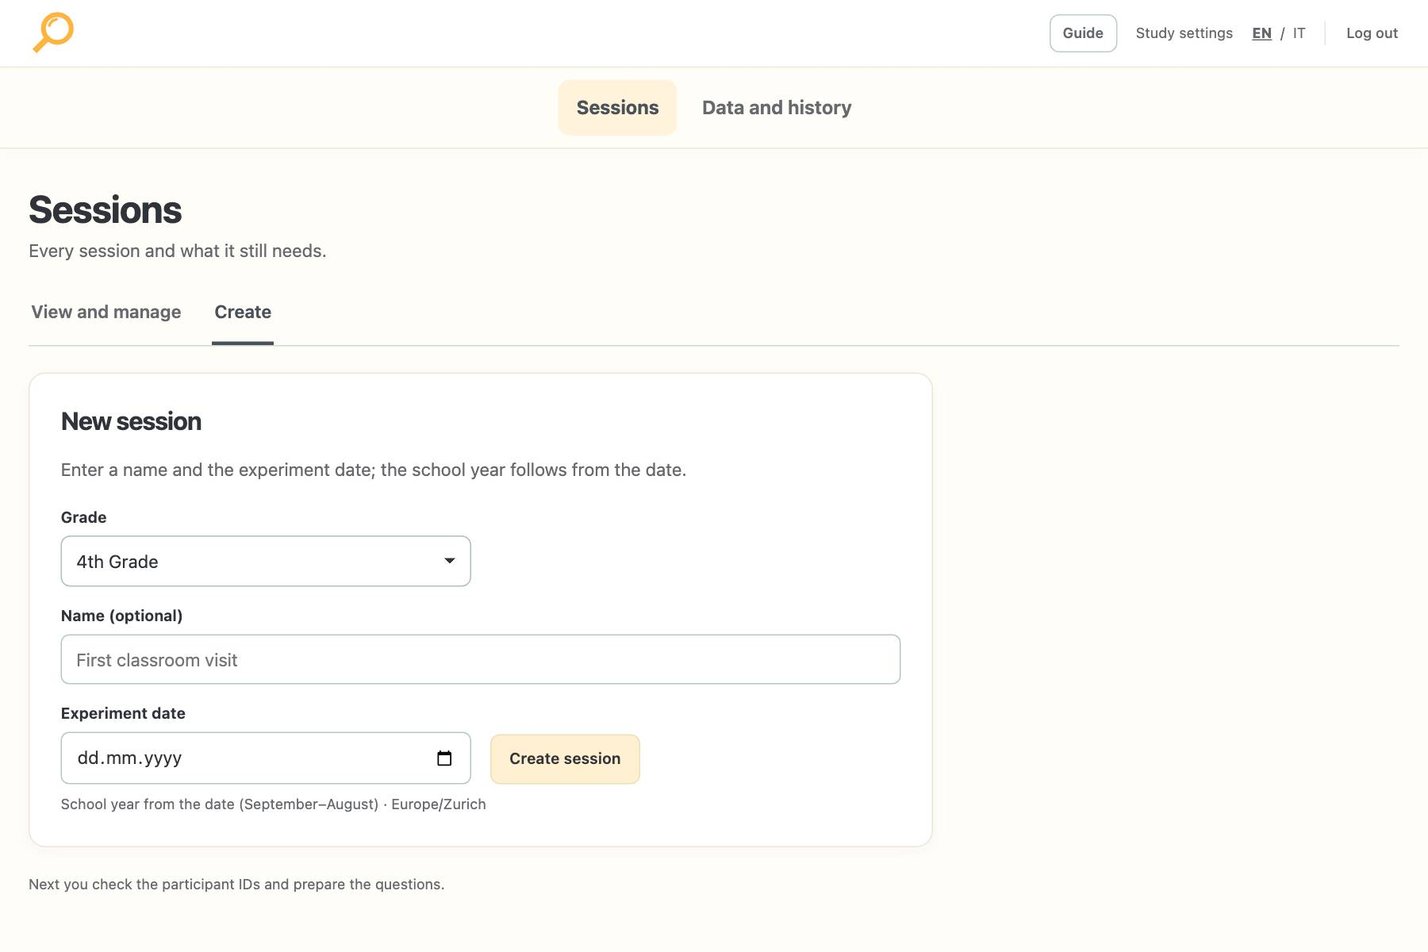
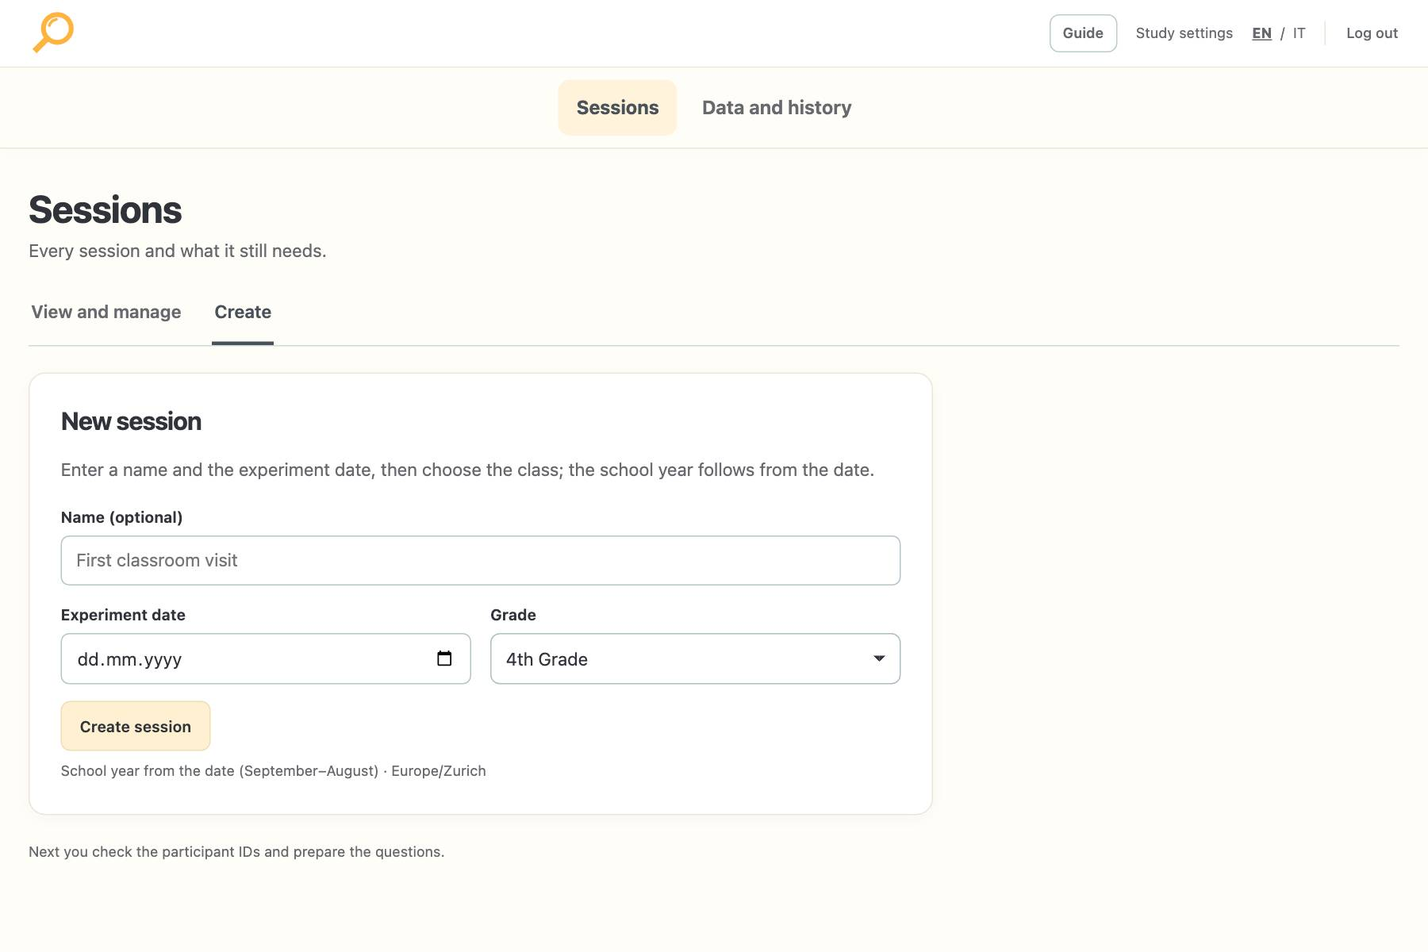
Re-check dashboard v2 against the researcher feedback of 3 November
Checked every point of the colleague's PDF and recording in a real browser.

Searching for an ID and jumping to one now use menus listing every ID, with its class
on the ID pages, instead of typing. The Participants year filter is a menu too. The
"Stai modificando" subtitle dropped by v2 is back, and its test no longer weakened.
Creating a session asks name and date first, then the class, with none preselected.
Draft badges use the warning colour and triangle. Today's session is no longer hidden
when the saved current year lags behind.

diff --git a/logger/search-app/research_dashboard/templates/research/enrollment.html b/logger/search-app/research_dashboard/templates/research/enrollment.html
@@ -39,10 +39,10 @@
     <input type="hidden" name="year" value="{{ year }}">
     <input type="hidden" name="grade" value="{{ workflow_session.grade }}">
     {% else %}
-    <div>{{ school_year_input('filter-year', 'year', year, school_years, required=false) }}</div>
+    <div><label for="filter-year">{{ t('school_year') }}</label><select id="filter-year" name="year">{% if not year %}<option value="" selected>{{ t('school_year_unknown') }}</option>{% endif %}{% for value in school_years %}<option value="{{ value }}" {% if year == value %}selected{% endif %}>{{ value }}</option>{% endfor %}</select></div>
     <div><label for="filter-grade">{{ t('grade') }}</label><select id="filter-grade" name="grade"><option value="all">{{ t('all') }}</option>{% for item in grades %}<option value="{{ item }}" {% if grade == item %}selected{% endif %}>{{ t('grade_' ~ item) }}</option>{% endfor %}</select></div>
     {% endif %}
-    <div><label for="filter-id">{{ t('find_exact_id') }}</label><input id="filter-id" name="q" type="search" value="{{ query }}" maxlength="32" placeholder="001" aria-describedby="id-search-hint" autocomplete="off"></div>
+    <div><label for="filter-id">{{ t('find_exact_id') }}</label><select id="filter-id" name="q" aria-describedby="id-search-hint"><option value="">{{ t('all_ids') }}</option>{% if query and query not in registry_ids %}<option value="{{ query }}" selected>{{ query }}</option>{% endif %}{% for uid, id_grade in id_choices %}<option value="{{ uid }}" {% if query == uid %}selected{% endif %}>{{ uid }} · {{ t('grade_short_' ~ id_grade) if id_grade else t('not_enrolled') }}</option>{% endfor %}</select></div>
     <div><label for="filter-status">{{ t('participant_study_status') }}</label><select id="filter-status" name="status">{% for item in ('all','active','inactive') %}<option value="{{ item }}" {% if status == item %}selected{% endif %}>{{ t(item) }}</option>{% endfor %}</select></div>
     <div class="enrollment-filter-actions"><button type="submit">{{ t('apply_filters') }}</button><a href="{{ u('enrollment_page',year=year,grade=grade) }}">{{ t('dashboard_reset') }}</a></div>
   </form>

diff --git a/logger/search-app/research_dashboard/templates/research/base.html b/logger/search-app/research_dashboard/templates/research/base.html
@@ -4,12 +4,12 @@
   <meta charset="utf-8">
   <meta name="viewport" content="width=device-width, initial-scale=1">
   <title>{{ t('dashboard') }} · SOL</title>
-  <link rel="stylesheet" href="{{ url_for('research.static', filename='research.css', v='dashboard-v2-20261105') }}">
-  <link rel="stylesheet" href="{{ url_for('research.static', filename='history.css', v='dashboard-v2-20261105') }}">
-  <link rel="stylesheet" href="{{ url_for('research.static', filename='workflow.css', v='dashboard-v2-20261105') }}">
-  <link rel="stylesheet" href="{{ url_for('research.static', filename='editor.css', v='dashboard-v2-20261105') }}">
-  <link rel="stylesheet" href="{{ url_for('research.static', filename='sessions.css', v='dashboard-v2-20261105') }}">
-  <link rel="stylesheet" href="{{ url_for('research.static', filename='stats.css', v='dashboard-v2-20261105') }}">
+  <link rel="stylesheet" href="{{ url_for('research.static', filename='research.css', v='dashboard-v2-20261106') }}">
+  <link rel="stylesheet" href="{{ url_for('research.static', filename='history.css', v='dashboard-v2-20261106') }}">
+  <link rel="stylesheet" href="{{ url_for('research.static', filename='workflow.css', v='dashboard-v2-20261106') }}">
+  <link rel="stylesheet" href="{{ url_for('research.static', filename='editor.css', v='dashboard-v2-20261106') }}">
+  <link rel="stylesheet" href="{{ url_for('research.static', filename='sessions.css', v='dashboard-v2-20261106') }}">
+  <link rel="stylesheet" href="{{ url_for('research.static', filename='stats.css', v='dashboard-v2-20261106') }}">
   <script src="{{ url_for('research.static', filename='editor.js') }}" defer></script>
   {% block page_assets %}{% endblock %}
 </head>

diff --git a/logger/search-app/research_dashboard/templates/research/prepare.html b/logger/search-app/research_dashboard/templates/research/prepare.html
@@ -4,7 +4,7 @@
 <div class="preparation-workspace">
   {% set shown = rejected or selected %}
   <a class="session-back" href="{{ u('sessions_page', year=shown.school_year or study_context.school_year, _anchor=shown.id) }}">&larr; {{ t('back_to_sessions') }}</a>
-  <div class="preparation-heading"><div><h1>{{ shown.name or (t('session') ~ ' ' ~ shown.number) }}</h1><p class="muted">{{ t('grade_' ~ study_context.grade) }} · {{ study_context.school_year }}{% if shown.name %} · {{ t('session') }} {{ shown.number }}{% endif %}</p></div></div>
+  <div class="preparation-heading"><div><h1>{{ shown.name or (t('session') ~ ' ' ~ shown.number) }}</h1><p class="muted">{% if selected %}{{ t('prepare_editing') }} <strong>{{ selected.name or (t('session') ~ ' ' ~ selected.number) }}</strong> · {% endif %}{{ t('grade_' ~ study_context.grade) }} · {{ study_context.school_year }}{% if shown.name %} · {{ t('session') }} {{ shown.number }}{% endif %}.{% if selected %} {{ t('prepare_editing_scope') }}{% endif %}</p></div></div>
   {% if error %}<p class="notice warning" role="alert">{{ t(error) }}</p>{% if error == 'settings_changed' %}<a href="{{ u('prepare_page',grade=study_context.grade,year=study_context.school_year,session=shown.id) }}">{{ t('reload_saved_settings') }}</a>{% elif rejected_review_url %}<p><a class="button" href="{{ rejected_review_url }}" target="_blank" rel="noopener">{{ t('review_saved_session') }}</a></p>{% endif %}{% endif %}
   {% if request.args.get('saved') %}<p class="notice success" role="status">{{ t('session_saved') }}</p>{% endif %}
   {% if request.args.get('participants_saved') %}<p class="notice success" role="status">{{ t('participants_saved') }}</p>{% endif %}

diff --git a/logger/search-app/research_dashboard/templates/research/sessions_new.html b/logger/search-app/research_dashboard/templates/research/sessions_new.html
@@ -8,9 +8,9 @@
     <p class="muted">{{ t('prepare_creating_hint') }}</p>
     <form class="session-create-form" method="post" data-guard{% if error %} data-unsaved{% endif %} action="{{ u('create_session_page') }}">
       <input type="hidden" name="csrf" value="{{ auth.csrf }}"><input type="hidden" name="revision" value="{{ form_revision }}">
-      <label for="new-grade">{{ t('grade') }}<select id="new-grade" name="grade">{% for value in grades %}<option value="{{ value }}" {% if selected_grade == value %}selected{% endif %}>{{ t('grade_' ~ value) }}</option>{% endfor %}</select></label>
       <label for="new-name">{{ t('session_name_optional') }}<input id="new-name" name="name" type="text" maxlength="80" value="{{ request.form.get('name', '') }}" placeholder="{{ t('session_name_example') }}"></label>
       <label for="new-date">{{ t('date') }}<input id="new-date" name="date" type="date" value="{{ request.form.get('date', '') }}" aria-describedby="new-date-year" required></label>
+      <label for="new-grade">{{ t('grade') }}<select id="new-grade" name="grade" required><option value="" disabled {% if selected_grade not in grades %}selected{% endif %}>{{ t('choose_class') }}</option>{% for value in grades %}<option value="{{ value }}" {% if selected_grade == value %}selected{% endif %}>{{ t('grade_' ~ value) }}</option>{% endfor %}</select></label>
       <button class="primary" type="submit">{{ t('create_session') }}</button>
     </form>
     <p class="small muted" id="new-date-year">{{ t('school_year_from_date') }} · Europe/Zurich</p>

diff --git a/logger/search-app/research_dashboard/templates/research/overview.html b/logger/search-app/research_dashboard/templates/research/overview.html
@@ -48,8 +48,7 @@
 
   {% if people %}<div class="participant-jump" data-participant-jump data-missing="{{ t('jump_id_missing') }}" data-participant-label="{{ t('participant') }}" hidden>
     <label for="participant-jump-id">{{ t('jump_to_id') }}</label>
-    <div class="participant-jump-controls"><input id="participant-jump-id" type="search" list="participant-jump-options" autocomplete="off" aria-describedby="participant-jump-hint"><button type="button">{{ t('jump_to_participant') }}</button></div>
-    <datalist id="participant-jump-options">{% for uid in people|map(attribute='id')|unique %}<option value="{{ uid }}">{% endfor %}</datalist>
+    <div class="participant-jump-controls"><select id="participant-jump-id" aria-describedby="participant-jump-hint"><option value="">{{ t('jump_choose_id') }}</option>{% for uid in people|map(attribute='id')|unique %}<option value="{{ uid }}">{{ uid }}</option>{% endfor %}</select><button type="button">{{ t('jump_to_participant') }}</button></div>
     <p id="participant-jump-hint" class="small muted">{{ t('jump_id_hint') }}</p>
     <p class="small" data-jump-result role="status" aria-live="polite"></p>
   </div>{% endif %}

diff --git a/logger/search-app/research_dashboard/static/sessions.css b/logger/search-app/research_dashboard/static/sessions.css
@@ -19,6 +19,9 @@
 .session-row-title a { font-weight:650; overflow-wrap:anywhere }
 .session-row-count { color:var(--muted); font-size:14px; font-variant-numeric:tabular-nums; white-space:nowrap }
 .session-row-status { display:flex; align-items:center; flex-wrap:wrap; gap:6px 10px; min-width:0 }
+/* A draft is the "setup to complete" warning: own colour and triangle, as on the session's page. */
+.session-row-status .badge.incomplete { display:inline-flex; align-items:center; gap:4px; border-color:var(--warning-line); background:var(--warning-soft); color:var(--warning-ink) }
+.session-row-status .badge.incomplete::before { content:""; width:12px; height:12px; flex:none; background-color:var(--warning-line); -webkit-mask:url("icon-warning.svg") center/contain no-repeat; mask:url("icon-warning.svg") center/contain no-repeat }
 .session-row .record-actions { justify-content:flex-end }
 .session-needs { display:flex; align-items:center; flex-wrap:wrap; gap:2px 8px; margin:0; font-size:13px }
 .session-needs > span { color:var(--muted) }

diff --git a/logger/search-app/research_dashboard/static/editor.js b/logger/search-app/research_dashboard/static/editor.js
@@ -123,11 +123,11 @@
 
   var jump = document.querySelector('[data-participant-jump]');
   if (jump) {
-    var jumpInput = jump.querySelector('input');
+    var jumpInput = jump.querySelector('select');
     var jumpResult = jump.querySelector('[data-jump-result]');
     var lastJump = '', jumpIndex = -1;
     function jumpToId() {
-      var value = jumpInput.value.trim();
+      var value = jumpInput.value;
       var matches = Array.prototype.filter.call(document.querySelectorAll('.participant-link[data-participant-id]'), function (link) {
         return link.getAttribute('data-participant-id') === value;
       }).map(function (link) { return link.closest('tr'); });

diff --git a/logger/search-app/research_dashboard/static/research.css b/logger/search-app/research_dashboard/static/research.css
@@ -1993,7 +1993,7 @@ select {
 .participant-jump[hidden] { display:none }
 .participant-jump label { margin-top:0 }
 .participant-jump-controls { display:flex; gap:8px; align-items:center }
-.participant-jump-controls input { min-width:0; flex:1; margin:0 }
+.participant-jump-controls select { min-width:0; flex:1; margin:0 }
 .participant-jump-controls button { flex:none }
 .participant-jump p { margin:6px 0 0 }
 .participant-jump-target { outline:2px solid #de9b34; outline-offset:-2px; background:var(--selection) }

diff --git a/logger/search-app/tests/test_dashboard_feedback.py b/logger/search-app/tests/test_dashboard_feedback.py
@@ -94,6 +94,8 @@ def test_clearer_wording_for_past_sessions_class_questions_and_recovery_copies(a
     assert "I bambini non possono più iniziare questa sessione" in page.text
     assert "nuovi accessi" not in page.text
     assert "Torna alle sessioni" in page.text
+    assert "Stai modificando <strong>" in page.text
+    assert "Le modifiche in questa pagina valgono solo per questa sessione." in page.text
     assert "Apri anno" not in page.text
     questions = client.get("/dashboard/settings/questions/grade-4-session-1?lang=it")
     assert "<h2>Domande per tutta la classe</h2>" in questions.text
@@ -146,6 +148,81 @@ def test_id_search_says_where_a_hidden_id_is(app):
     absent = client.get(from_prepare + "41")
     assert "non è iscritto in questo anno scolastico. Ultima classe: <strong>Quarta elementare · 2025/2026</strong>" in absent.text
     assert "Nessun partecipante corrisponde ai filtri" not in absent.text
+
+
+def select_options(html, control_id):
+    """(value, label, selected) of each option in one select, in order."""
+    field = re.search(rf'<select id="{control_id}".*?</select>', html, re.S)[0]
+    return [(value, " ".join(label.split()), "selected" in attrs)
+            for value, attrs, label in re.findall(r'<option value="([^"]*)"([^>]*)>(.*?)</option>', field, re.S)]
+
+
+def test_id_search_lists_every_id_with_its_class_so_nothing_has_to_be_typed(app):
+    client = signed_in(app)
+    from_prepare = f"/dashboard/settings/enrollment?prepare_session=grade-4-session-1&year={YEAR}&grade=4&lang=it"
+    page = client.get(from_prepare)
+    assert '<input id="filter-id"' not in page.text
+    options = select_options(page.text, "filter-id")
+    assert options[0] == ("", "Tutti gli ID", False)
+    # IDs of other classes are offered too: the researcher does not know where each child is.
+    assert ("1", "1 · Quarta", False) in options
+    assert ("21", "21 · Quinta", False) in options
+    chosen = client.get(from_prepare + "&q=21")
+    assert ("21", "21 · Quinta", True) in select_options(chosen.text, "filter-id")
+    assert "ID 21</strong> non è in questa classe" in chosen.text
+    # An ID from an old link stays visible, with the message saying it is not in the study.
+    unknown = client.get(from_prepare + "&q=999")
+    assert ("999", "999", True) in select_options(unknown.text, "filter-id")
+    assert "non è nello studio" in unknown.text
+
+
+def test_participants_filter_chooses_the_school_year_from_a_menu(app):
+    client = signed_in(app)
+    page = client.get(f"/dashboard/settings/enrollment?year={YEAR}&lang=it")
+    assert '<input id="filter-year"' not in page.text
+    assert (YEAR, YEAR, True) in select_options(page.text, "filter-year")
+
+
+def test_new_session_asks_name_and_date_first_and_the_class_is_an_explicit_choice(app):
+    client = signed_in(app)
+    state = app.extensions["research"]["state"]
+    page = client.get("/dashboard/sessions/new?lang=it")
+    assert page.text.index('id="new-name"') < page.text.index('id="new-date"') < page.text.index('id="new-grade"')
+    assert re.search(r'<option value="" disabled selected>Scegli la classe</option>', page.text)
+    assert 'id="new-grade" name="grade" required' in page.text
+    filtered = client.get("/dashboard/sessions/new?grade=5&lang=it")
+    assert ("5", "Quinta elementare", True) in select_options(filtered.text, "new-grade")
+    before = state.settings()
+    refused = client.post("/dashboard/sessions/new?lang=it", data={
+        "csrf": csrf(page), "revision": before["revision"], "name": "Senza classe", "date": "2026-12-01", "grade": ""})
+    assert refused.status_code == 400
+    assert 'value="Senza classe"' in refused.text
+    assert state.settings()["revision"] == before["revision"]
+    assert client.get("/dashboard/sessions/new?grade=7").status_code == 404
+
+
+def test_a_saved_year_that_lags_behind_does_not_hide_this_years_sessions(app):
+    from copy import deepcopy
+
+    from research_dashboard.participants import school_year_for
+    from research_dashboard.preparation_views import zurich_today
+    from research_dashboard.state import SETTING_FIELDS
+
+    client = signed_in(app)
+    state = app.extensions["research"]["state"]
+    settings = state.settings()
+    today = zurich_today()
+    updated = deepcopy({key: settings[key] for key in SETTING_FIELDS})
+    updated["current_school_year"] = "2025/2026"
+    target = next(item for item in updated["sessions"] if item["grade"] == "4")
+    target.update(name="Sessione di oggi", date=today, school_year=school_year_for(today))
+    state.save_settings(updated, settings["revision"])
+    landing = client.get("/dashboard/sessions?lang=it")
+    assert "Sessione di oggi" in landing.text
+    assert (school_year_for(today), school_year_for(today), True) in select_options(landing.text, "sessions-year")
+    # Today's session stays listed even with another year selected, and only then is the class filter applied.
+    assert "Sessione di oggi" in client.get("/dashboard/sessions?year=2025%2F2026&lang=it").text
+    assert "Sessione di oggi" not in client.get("/dashboard/sessions?grade=5&lang=it").text
 
 
 def test_unnamed_session_has_no_stray_dot_on_the_questions_page(app):

diff --git a/logger/search-app/research_dashboard/i18n.py b/logger/search-app/research_dashboard/i18n.py
@@ -17,8 +17,9 @@ TEXT = {
     "library_selected": ("Selected", "Selezionato"),
     "jump_to_id": ("Jump to participant ID", "Vai all’ID partecipante"),
     "jump_to_participant": ("Find ID", "Trova ID"),
-    "jump_id_missing": ("No participant with that exact ID in this view.", "Nessun partecipante con questo ID esatto in questa vista."),
-    "jump_id_hint": ("Enter an exact ID. Every participant stays in the list.", "Inserisci un ID esatto. Tutti i partecipanti restano nell’elenco."),
+    "jump_id_missing": ("Choose an ID from the list first.", "Prima scegli un ID dall’elenco."),
+    "jump_choose_id": ("Choose an ID", "Scegli un ID"),
+    "jump_id_hint": ("Choose an ID from the list. Every participant stays in the table.", "Scegli un ID dall’elenco. Tutti i partecipanti restano nella tabella."),
     "skip_to_content": ("Skip to content", "Vai al contenuto"),
     "utility_navigation": ("Utilities", "Utilità"),
     "primary_navigation": ("Main navigation", "Navigazione principale"),
@@ -515,8 +516,9 @@ TEXT.update({'op_initial_enrollment': ('Confirm initial school-year enrollment',
  'apply_filters': ('Apply filters', 'Applica filtri'),
  'find_exact_id': ('Find an ID', 'Cerca un ID'),
  'no_participants': ('No participants to show', 'Nessun partecipante da mostrare'),
- 'exact_id_search_hint': ('Enter the complete ID. For example, 1 and 001 are different participants.',
-                          'Inserisci l’ID completo. Ad esempio, 1 e 001 sono partecipanti diversi.'),
+ 'all_ids': ('All IDs', 'Tutti gli ID'),
+ 'exact_id_search_hint': ('Choose an ID from the list. Each one shows its class in this school year.',
+                          'Scegli un ID dall’elenco. Accanto a ciascuno vedi la sua classe in questo anno scolastico.'),
  'participant_study_status': ('Status in the study', 'Stato nello studio'),
  'enrollment_filter_context': ('Filters only change this list. Every active ID in this class remains available in every session.',
                                 'I filtri modificano solo questo elenco. Tutti gli ID attivi della classe restano disponibili in ogni sessione.'),
@@ -595,7 +597,10 @@ TEXT.update({
     'no_runs_selected': ('Select one or more runs of this participant to download.', 'Seleziona una o più esecuzioni di questo partecipante da scaricare.'),
     'school_years_in_study': ('School years already in the study', 'Anni scolastici già presenti nello studio'),
     'school_year_unchanged': ('This is already the current school year. Nothing was changed.', 'È già l’anno scolastico attuale. Non è stato modificato nulla.'),
-    'prepare_creating_hint': ('Enter a name and the experiment date; the school year follows from the date.', 'Inserisci nome e data dell’esperimento; l’anno scolastico segue dalla data.'),
+    'prepare_editing': ('You are editing', 'Stai modificando'),
+    'prepare_editing_scope': ('Changes on this page apply only to this session.', 'Le modifiche in questa pagina valgono solo per questa sessione.'),
+    'prepare_creating_hint': ('Enter a name and the experiment date, then choose the class; the school year follows from the date.', 'Inserisci nome e data dell’esperimento, poi scegli la classe; l’anno scolastico segue dalla data.'),
+    'choose_class': ('Choose the class', 'Scegli la classe'),
     'school_year_from_date': ('School year from the date (September–August)', 'Anno scolastico dalla data (settembre–agosto)'),
     'id_search_unknown': ('is not in the study. To add it, use “Create new participants”.',
                           'non è nello studio. Per aggiungerlo usa «Crea nuovi partecipanti».'),

diff --git a/logger/search-app/tests/test_participant_jump_browser.py b/logger/search-app/tests/test_participant_jump_browser.py
@@ -12,20 +12,22 @@ def test_jump_focuses_exact_id_without_filtering_or_changing_selection(live, lan
     page.goto(live.base + f'/dashboard?collection=study&grade=4&lang={language}')
     before = page.locator('tbody tr').count()
     page.locator('input[name=participant]').check()
-    page.fill('#participant-jump-id', '20')
+    # Every ID in the view is offered in the menu, so nothing has to be typed.
+    assert page.locator('#participant-jump-id option').count() == before + 1
+    page.select_option('#participant-jump-id', '20')
     page.locator('[data-participant-jump] button').click()
     link = page.locator('.participant-link[data-participant-id="20"]')
     assert link.evaluate('(node) => document.activeElement === node')
     assert page.locator('tbody tr').count() == before == 20
     assert page.locator('input[name=participant]').is_checked()
     assert page.locator('[data-jump-result]').inner_text().endswith('20 · 1 / 1')
-    page.fill('#participant-jump-id', '2')
+    page.select_option('#participant-jump-id', '2')
     page.locator('[data-participant-jump] button').click()
     assert page.locator('.participant-link[data-participant-id="2"]').evaluate('(node) => document.activeElement === node')
-    page.fill('#participant-jump-id', '02')
-    page.keyboard.press('Enter')
+    page.select_option('#participant-jump-id', '')
+    page.locator('[data-participant-jump] button').click()
     assert page.locator('#participant-jump-id').evaluate('(node) => document.activeElement === node')
-    assert '02' not in page.locator('[data-jump-result]').inner_text()
+    assert page.locator('.participant-jump-target').count() == 0
     assert page.locator('tbody tr').count() == before
     assert page.evaluate('document.documentElement.scrollWidth <= innerWidth')
 
@@ -37,7 +39,7 @@ def test_duplicate_id_jumps_cycle_through_separate_collections(live):
     page = live.login()
     page.goto(live.base + '/dashboard?collection=study&grade=all&lang=en')
     assert page.locator('.participant-link[data-participant-id="1"]').count() == 2
-    page.fill('#participant-jump-id', '1')
+    page.select_option('#participant-jump-id', '1')
     button = page.locator('[data-participant-jump] button')
     button.click()
     first = page.locator('.participant-jump-target .participant-link').get_attribute('href')

diff --git a/logger/search-app/research_dashboard/session_views.py b/logger/search-app/research_dashboard/session_views.py
@@ -28,7 +28,9 @@ def session_rows(settings, year, grade, today):
     """Sessions in view, grouped for the list. Empty numbered slots are not shown."""
     groups = {"today": [], "published": [], "draft": [], "past": []}
     for study_session in settings["sessions"]:
-        if study_session.get("removed") or not _in_view(study_session, year, grade) or is_placeholder(study_session):
+        # Today's session is never hidden by the year filter: it is the one researchers need on the day.
+        in_view = _in_view(study_session, year if study_session.get("date") != today else "", grade)
+        if study_session.get("removed") or not in_view or is_placeholder(study_session):
             continue
         readiness = session_readiness(settings, study_session)
         group = session_group(study_session, readiness, today)
@@ -80,7 +82,8 @@ def register_session_routes(dash):
         settings = state.settings()
         today = zurich_today()
         grade = request.args.get("grade", "all")
-        year = request.args.get("year", settings["current_school_year"] or school_year_for(today))
+        # Sessions are filed by their date, so a saved current year that lags behind must not hide them.
+        year = request.args.get("year", max(settings["current_school_year"] or "", school_year_for(today)))
         if grade not in (*GRADES, "all") or year and not valid_school_year(year):
             abort(404)
         error = None
@@ -112,8 +115,9 @@ def register_session_routes(dash):
     @bp.route("/sessions/new", methods=["GET", "POST"])
     def create_session_page():
         settings = state.settings()
-        grade = request.form.get("grade", request.args.get("grade", "4"))
-        if request.method == "GET" and grade not in GRADES:
+        # No class is preselected unless the list was filtered to one: it is an explicit choice.
+        grade = request.form.get("grade", request.args.get("grade", ""))
+        if request.method == "GET" and grade and grade not in GRADES:
             abort(404)
         error = None
         if request.method == "POST":
